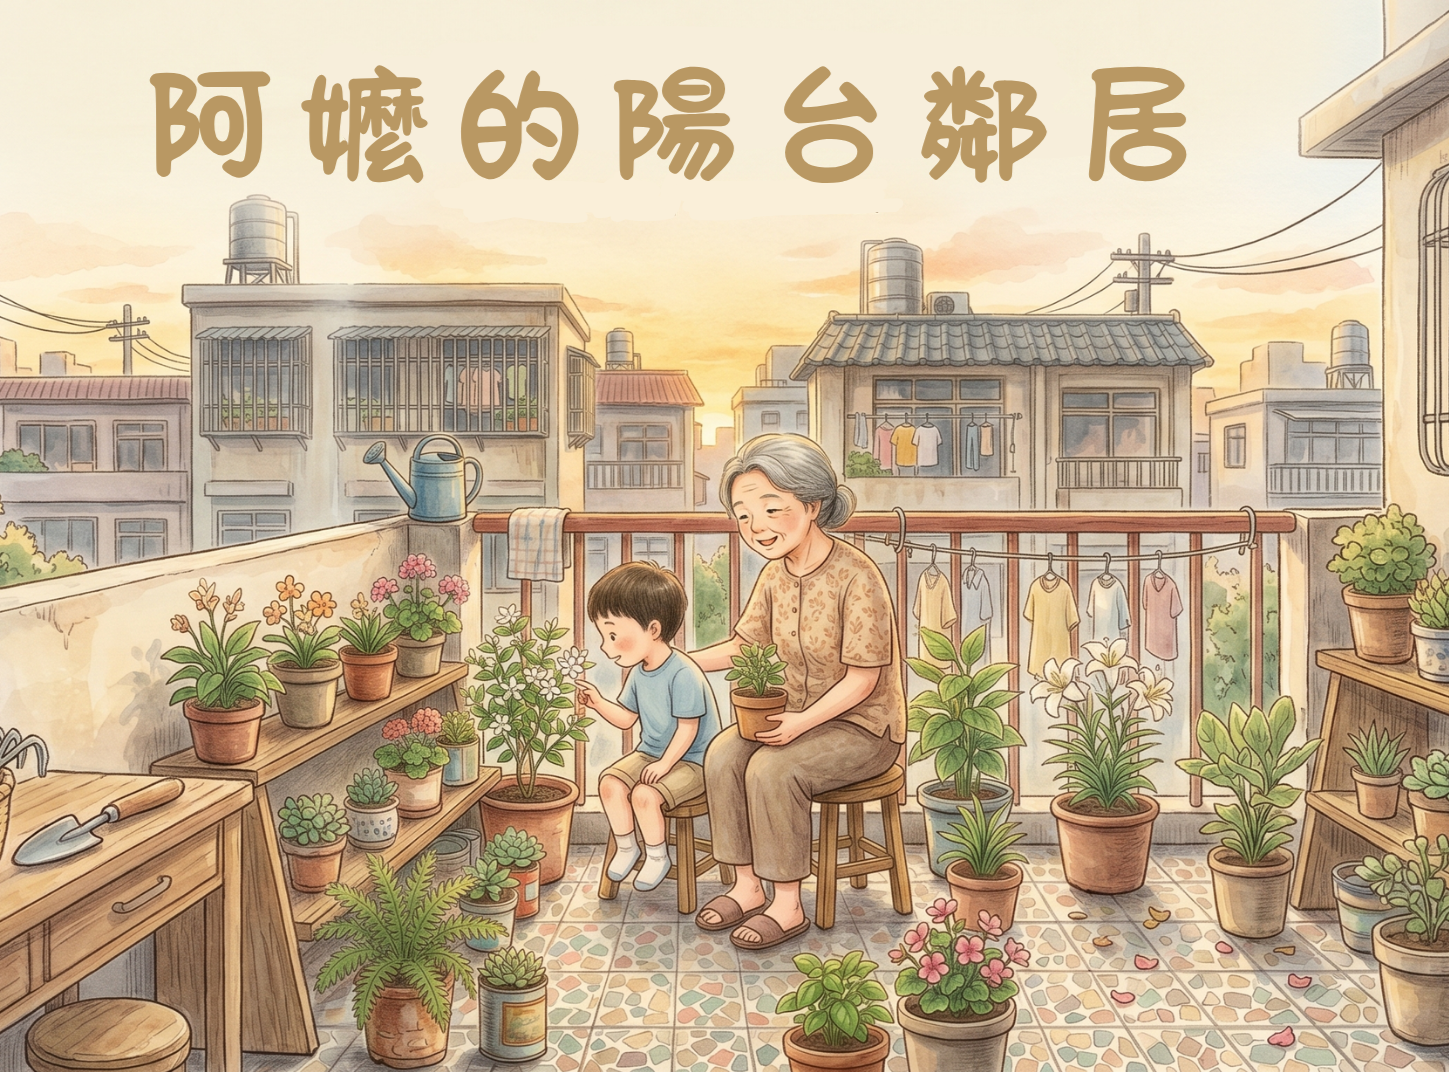
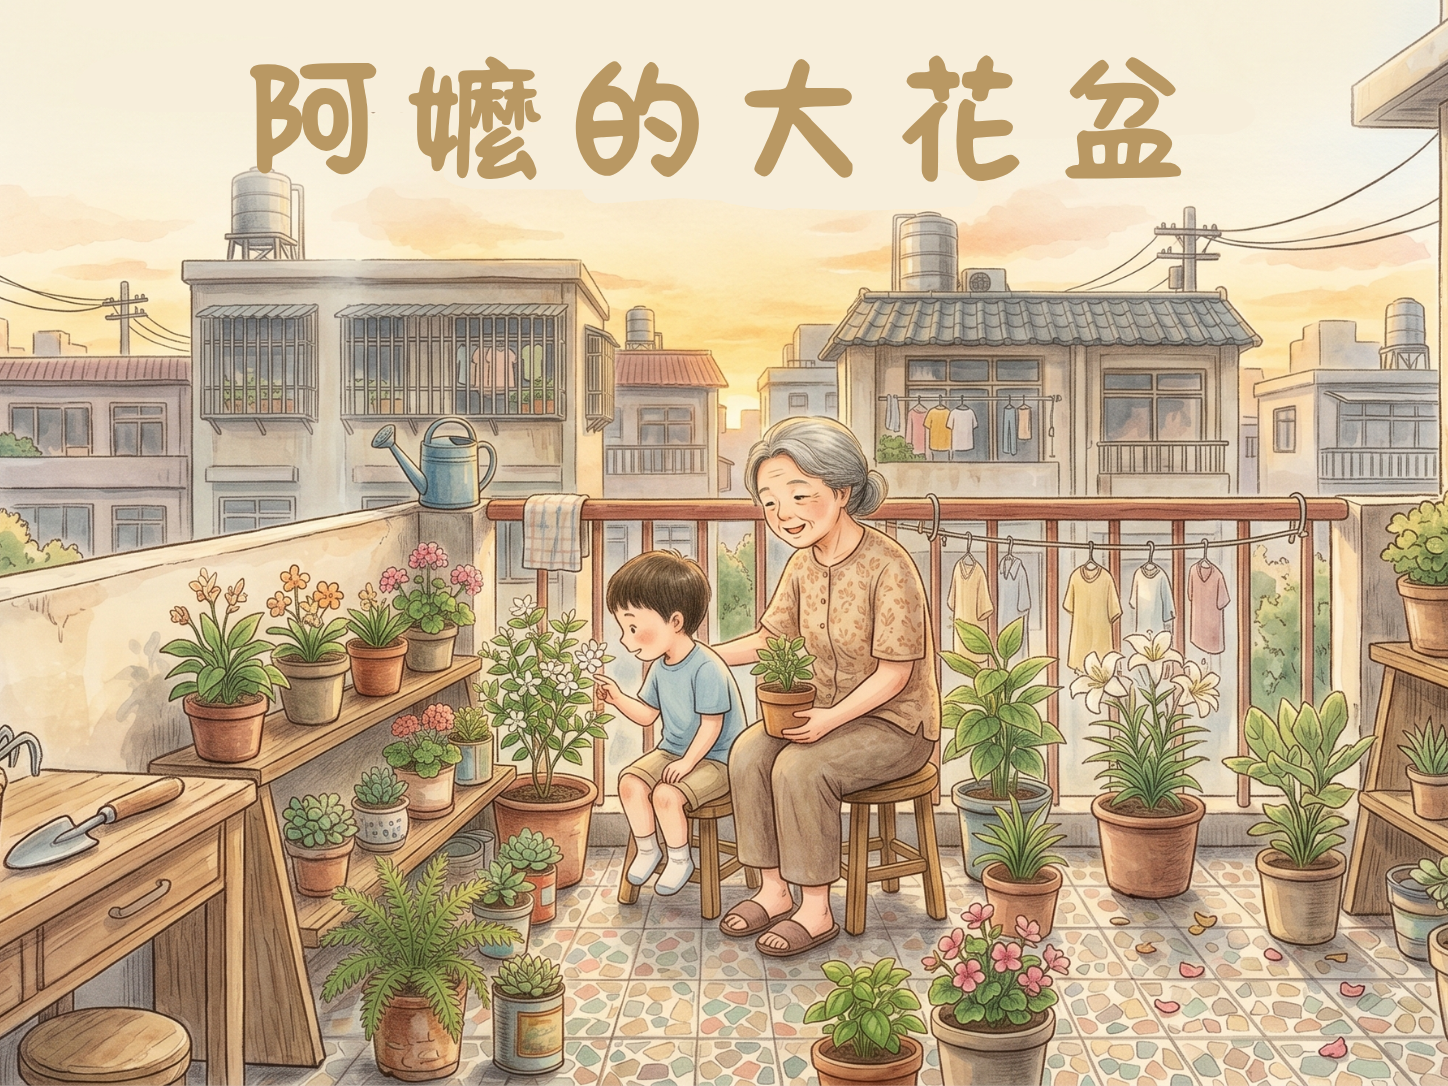
feat: enhance title styling, remove 5-flower limit, add spot counter hint, adjust grid sizes, and update images 0 and 15

diff --git a/index.html b/index.html
@@ -4,7 +4,7 @@
 <head>
     <meta charset="UTF-8">
     <meta name="viewport" content="width=device-width, initial-scale=1.0">
-    <title>阿嬤的陽台鄰居 - 繪本故事</title>
+    <title>阿嬤的大花盆 - 繪本故事</title>
     <style>
         /* ================= 高齡友善色彩與字體設定 ================= */
         :root {
@@ -16,6 +16,48 @@
             --btn-secondary-hover: #759567;
             --panel-bg: #FFF4EB;
             --book-bg: #FFFFFF;
+        }
+
+        .header-container {
+            text-align: center;
+            margin-top: 10px;
+            margin-bottom: 20px;
+            display: flex;
+            flex-direction: column;
+            align-items: center;
+            gap: 8px;
+        }
+
+        h1.book-title {
+            font-size: 42px;
+            font-weight: 900;
+            margin: 0;
+            background: linear-gradient(135deg, #E28743, #769766);
+            -webkit-background-clip: text;
+            -webkit-text-fill-color: transparent;
+            text-align: center;
+            letter-spacing: 2px;
+            filter: drop-shadow(1px 2px 3px rgba(74, 59, 50, 0.15));
+            transition: transform 0.3s ease;
+            cursor: pointer;
+        }
+
+        h1.book-title:hover {
+            transform: scale(1.05);
+        }
+
+        .book-subtitle {
+            font-size: 16px;
+            color: #8E7A6B;
+            font-weight: bold;
+            letter-spacing: 1px;
+            background: rgba(135, 168, 120, 0.1);
+            padding: 4px 16px;
+            border-radius: 20px;
+            border: 1px dashed rgba(135, 168, 120, 0.3);
+            display: inline-flex;
+            align-items: center;
+            gap: 6px;
         }
 
         body {
@@ -125,8 +167,8 @@
             /* 橫向長方形 8:4 */
 
             display: grid;
-            grid-template-columns: repeat(8, 1fr);
-            grid-template-rows: repeat(4, 1fr);
+            grid-template-columns: repeat(8, minmax(0, 1fr));
+            grid-template-rows: repeat(4, minmax(0, 1fr));
             gap: 0%;
             /* 格子之間的空隙 (原本是 2%，已調小，可改為 0% 讓格子完全貼合) */
             z-index: 10;
@@ -137,17 +179,19 @@
         .interactive-cell {
             box-sizing: border-box;
             background-color: transparent; /* 完全透明，不遮擋背景 */
-            border: 1px dashed rgba(255, 255, 255, 0.25);
+            border: 4px dashed rgba(255, 255, 255, 0.2);
             border-radius: 8px;
             cursor: pointer;
             display: flex;
             align-items: center;
             justify-content: center;
-            font-size: 24px;
+            font-size: 4.8cqw;
             line-height: 1;
             overflow: visible; /* 讓右上角的標記可以完整超出邊界顯示 */
             user-select: none;
             transition: all 0.2s;
+            min-width: 0;
+            min-height: 0;
         }
 
         .interactive-cell:hover {
@@ -199,8 +243,8 @@
 
         .interactive-cell.error-mark {
             animation: shake 0.4s;
-            border: 4px solid #E76F51 !important;
-            background-color: rgba(231, 111, 81, 0.3) !important;
+            border: 4px solid #FFA500 !important;
+            background-color: rgba(255, 165, 0, 0.25) !important;
         }
 
         /* ================= 操作按鈕 ================= */
@@ -272,7 +316,7 @@
             color: #A69C95;
             font-weight: bold;
             font-size: 22px;
-            margin-top: 15px;
+            margin-top: 35px;
             animation: floatLeftRight 3s infinite;
         }
 
@@ -588,6 +632,11 @@
 
 <body>
 
+    <div class="header-container">
+        <h1 class="book-title">阿嬤的大花盆</h1>
+        <div class="book-subtitle">🌱 綠意盎然的陽台互動繪本故事 🌸</div>
+    </div>
+
     <!-- 3D 繪本舞台 -->
     <div class="book-stage" id="book-stage">
         <!-- JS 會在這裡動態生成所有的頁面 -->
@@ -759,7 +808,7 @@
         // ================= 第 A 頁 排程遊戲 logic =================
         const TIMELINE_TRIPS = [
             {id:'A',name:'逛種子攤',start:780,end:840,type:'side',tag:'支線',color:'color-seed'},
-            {id:'B',name:'買晚餐',start:780,end:810,type:'side',tag:'支線',color:'color-breakfast'},
+            {id:'B',name:'買食材',start:780,end:810,type:'side',tag:'支線',color:'color-breakfast'},
             {id:'C',name:'肥料老闆A',start:840,end:960,type:'required',tag:'必備：肥料',color:'color-fertilizer-a',provides:'fertilizer',trap:true},
             {id:'D',name:'肥料老闆B',start:840,end:870,type:'required',tag:'必備：肥料',color:'color-fertilizer-b',provides:'fertilizer'},
             {id:'E',name:'買驅蟲藥',start:870,end:930,type:'required',tag:'必備：驅蟲藥',color:'color-pest',provides:'pest'},
@@ -1089,7 +1138,7 @@
                 }
             }
 
-            // 標註錯誤紅框
+            // 標註錯誤橘框
             index = 0;
             for (let r = 0; r < 4; r++) {
                 for (let c = 0; c < 8; c++) {
@@ -1111,21 +1160,16 @@
             }
 
             if (!isCorrect) {
-                hint.textContent = "🌸 哎呀，預測有衝突（紅框表示點錯位置或太擠相鄰，請修改重試）";
+                hint.textContent = "🌸 哎呀，預測有衝突（橘色框框表示點錯位置或太擠相鄰，請修改重試）";
                 hint.style.color = "#E76F51";
                 page8Result = 'fail';
                 return;
             }
 
-            if (activeCount < 5) {
-                hint.textContent = `🌸 安排的開花數量不夠（目前 ${activeCount} 朵，至少需安排 5 朵花開花喔！）`;
-                hint.style.color = "#E76F51";
-                page8Result = 'fail';
-                return;
-            }
+
 
             // 2. 檢查是否為 Maximal（是否還有其他花苗可以被預測）
-            let canAddMore = false;
+            let eligibleSpotsCount = 0;
             for (let r = 0; r < 4; r++) {
                 for (let c = 0; c < 8; c++) {
                     if (page8InitialGrid[r][c] === 1 && playerGrid[r][c] === 0) {
@@ -1142,15 +1186,14 @@
                             }
                         }
                         if (!hasAdjacentActive) {
-                            canAddMore = true;
-                            break;
+                            eligibleSpotsCount++;
                         }
                     }
                 }
             }
 
-            if (canAddMore) {
-                hint.textContent = "🌸 還有花苗可以被點選開花喔，再找找看哪裡還能開花吧！";
+            if (eligibleSpotsCount > 0) {
+                hint.textContent = `🌸 還有花苗可以被點選開花喔，再找找看吧！（還剩下 ${eligibleSpotsCount} 個位置可以點選開花喔！）`;
                 hint.style.color = "#E76F51";
                 page8Result = 'fail';
                 return;
@@ -1254,7 +1297,7 @@
                 }
             } else if (currentPage === INTERACTIVE_PAGE_INDEX) {
                 if (!isPage8Solved) {
-                    hint.innerHTML = "👆 請點擊預測明天能順利成長的花苗 🌱（至少需安排 5 朵花）<br><span style='font-size: 16px; font-weight: normal;'>（規則：開花處需在花苗上，且上下左右不相鄰，並讓所有花苗都能獲得陪伴）</span>";
+                    hint.innerHTML = "👆 請點擊預測明天能順利成長的花苗 🌱<br><span style='font-size: 16px; font-weight: normal;'>（規則：開花處需在花苗上，且上下左右不相鄰，並讓所有花苗都能獲得陪伴）</span>";
                     hint.style.opacity = '1';
                     hint.style.textAlign = 'center';
                 } else {
